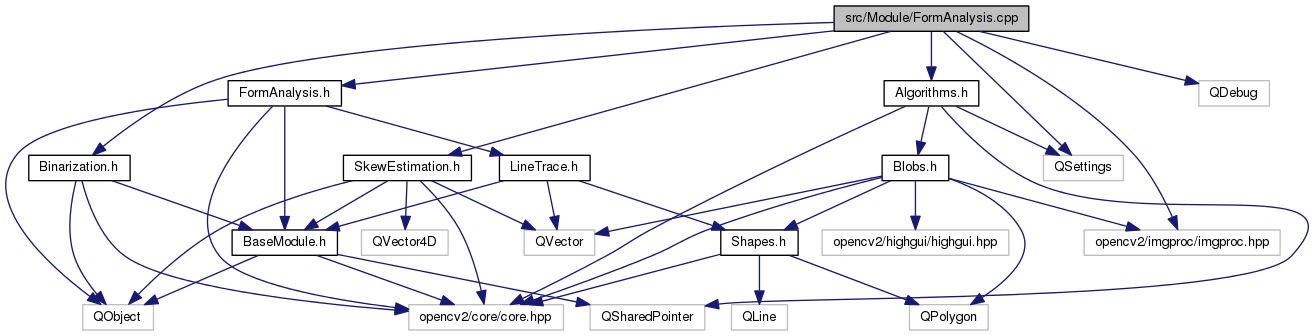
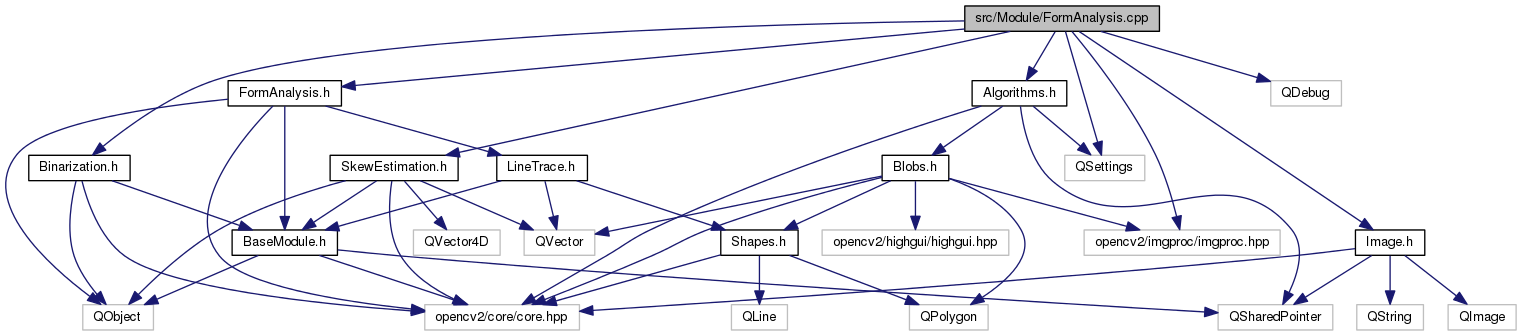
Automated documentation build for changeset 3e130e767842765d2caf7272e728a88d72a7d25c.

diff --git a/html/dir_000003_000001.html b/html/dir_000003_000001.html
@@ -95,7 +95,7 @@ $(document).ready(function(){initNavTree('dir_7a678c4f5ebb49c12cb98071857a26cf.h
 </div>
 
 <div class="contents">
-<h3>Module &rarr; Core Relation</h3><table class="dirtab"><tr class="dirtab"><th class="dirtab">File in src/Module</th><th class="dirtab">Includes file in src/Core</th></tr><tr class="dirtab"><td class="dirtab"><a class="el" href="_base_module_8cpp.html">BaseModule.cpp</a></td><td class="dirtab"><a class="el" href="_settings_8h.html">Settings.h</a></td></tr><tr class="dirtab"><td class="dirtab"><a class="el" href="_binarization_8cpp.html">Binarization.cpp</a></td><td class="dirtab"><a class="el" href="_algorithms_8h.html">Algorithms.h</a></td></tr><tr class="dirtab"><td class="dirtab"><a class="el" href="_binarization_8cpp.html">Binarization.cpp</a></td><td class="dirtab"><a class="el" href="_image_8h.html">Image.h</a></td></tr><tr class="dirtab"><td class="dirtab"><a class="el" href="_focus_measure_8cpp.html">FocusMeasure.cpp</a></td><td class="dirtab"><a class="el" href="_algorithms_8h.html">Algorithms.h</a></td></tr><tr class="dirtab"><td class="dirtab"><a class="el" href="_form_analysis_8cpp.html">FormAnalysis.cpp</a></td><td class="dirtab"><a class="el" href="_algorithms_8h.html">Algorithms.h</a></td></tr><tr class="dirtab"><td class="dirtab"><a class="el" href="_line_trace_8cpp.html">LineTrace.cpp</a></td><td class="dirtab"><a class="el" href="_algorithms_8h.html">Algorithms.h</a></td></tr><tr class="dirtab"><td class="dirtab"><a class="el" href="_line_trace_8cpp.html">LineTrace.cpp</a></td><td class="dirtab"><a class="el" href="_blobs_8h.html">Blobs.h</a></td></tr><tr class="dirtab"><td class="dirtab"><a class="el" href="_line_trace_8cpp.html">LineTrace.cpp</a></td><td class="dirtab"><a class="el" href="_image_8h.html">Image.h</a></td></tr><tr class="dirtab"><td class="dirtab"><a class="el" href="_line_trace_8h.html">LineTrace.h</a></td><td class="dirtab"><a class="el" href="_shapes_8h.html">Shapes.h</a></td></tr><tr class="dirtab"><td class="dirtab"><a class="el" href="_skew_estimation_8cpp.html">SkewEstimation.cpp</a></td><td class="dirtab"><a class="el" href="_algorithms_8h.html">Algorithms.h</a></td></tr><tr class="dirtab"><td class="dirtab"><a class="el" href="_skew_estimation_8cpp.html">SkewEstimation.cpp</a></td><td class="dirtab"><a class="el" href="_image_8h.html">Image.h</a></td></tr></table></div><!-- contents -->
+<h3>Module &rarr; Core Relation</h3><table class="dirtab"><tr class="dirtab"><th class="dirtab">File in src/Module</th><th class="dirtab">Includes file in src/Core</th></tr><tr class="dirtab"><td class="dirtab"><a class="el" href="_base_module_8cpp.html">BaseModule.cpp</a></td><td class="dirtab"><a class="el" href="_settings_8h.html">Settings.h</a></td></tr><tr class="dirtab"><td class="dirtab"><a class="el" href="_binarization_8cpp.html">Binarization.cpp</a></td><td class="dirtab"><a class="el" href="_algorithms_8h.html">Algorithms.h</a></td></tr><tr class="dirtab"><td class="dirtab"><a class="el" href="_binarization_8cpp.html">Binarization.cpp</a></td><td class="dirtab"><a class="el" href="_image_8h.html">Image.h</a></td></tr><tr class="dirtab"><td class="dirtab"><a class="el" href="_focus_measure_8cpp.html">FocusMeasure.cpp</a></td><td class="dirtab"><a class="el" href="_algorithms_8h.html">Algorithms.h</a></td></tr><tr class="dirtab"><td class="dirtab"><a class="el" href="_form_analysis_8cpp.html">FormAnalysis.cpp</a></td><td class="dirtab"><a class="el" href="_algorithms_8h.html">Algorithms.h</a></td></tr><tr class="dirtab"><td class="dirtab"><a class="el" href="_form_analysis_8cpp.html">FormAnalysis.cpp</a></td><td class="dirtab"><a class="el" href="_image_8h.html">Image.h</a></td></tr><tr class="dirtab"><td class="dirtab"><a class="el" href="_line_trace_8cpp.html">LineTrace.cpp</a></td><td class="dirtab"><a class="el" href="_algorithms_8h.html">Algorithms.h</a></td></tr><tr class="dirtab"><td class="dirtab"><a class="el" href="_line_trace_8cpp.html">LineTrace.cpp</a></td><td class="dirtab"><a class="el" href="_blobs_8h.html">Blobs.h</a></td></tr><tr class="dirtab"><td class="dirtab"><a class="el" href="_line_trace_8cpp.html">LineTrace.cpp</a></td><td class="dirtab"><a class="el" href="_image_8h.html">Image.h</a></td></tr><tr class="dirtab"><td class="dirtab"><a class="el" href="_line_trace_8h.html">LineTrace.h</a></td><td class="dirtab"><a class="el" href="_shapes_8h.html">Shapes.h</a></td></tr><tr class="dirtab"><td class="dirtab"><a class="el" href="_skew_estimation_8cpp.html">SkewEstimation.cpp</a></td><td class="dirtab"><a class="el" href="_algorithms_8h.html">Algorithms.h</a></td></tr><tr class="dirtab"><td class="dirtab"><a class="el" href="_skew_estimation_8cpp.html">SkewEstimation.cpp</a></td><td class="dirtab"><a class="el" href="_image_8h.html">Image.h</a></td></tr></table></div><!-- contents -->
 </div><!-- doc-content -->
 <!-- start footer part -->
 <div id="nav-path" class="navpath"><!-- id is needed for treeview function! -->

diff --git a/html/_form_analysis_8cpp.html b/html/_form_analysis_8cpp.html
@@ -111,6 +111,7 @@ $(document).ready(function(){initNavTree('_form_analysis_8cpp.html','');});
 <code>#include &quot;<a class="el" href="_binarization_8h_source.html">Binarization.h</a>&quot;</code><br/>
 <code>#include &quot;<a class="el" href="_algorithms_8h_source.html">Algorithms.h</a>&quot;</code><br/>
 <code>#include &quot;<a class="el" href="_skew_estimation_8h_source.html">SkewEstimation.h</a>&quot;</code><br/>
+<code>#include &quot;<a class="el" href="_image_8h_source.html">Image.h</a>&quot;</code><br/>
 <code>#include &lt;QDebug&gt;</code><br/>
 <code>#include &lt;QSettings&gt;</code><br/>
 <code>#include &quot;opencv2/imgproc/imgproc.hpp&quot;</code><br/>
@@ -119,7 +120,7 @@ Include dependency graph for FormAnalysis.cpp:</div>
 <div class="dyncontent">
 <div class="center"><img src="_form_analysis_8cpp__incl.png" border="0" usemap="#src_2_module_2_form_analysis_8cpp" alt=""/></div>
 <map name="src_2_module_2_form_analysis_8cpp" id="src_2_module_2_form_analysis_8cpp">
-<area shape="rect" id="node2" href="_form_analysis_8h.html" title="FormAnalysis.h" alt="" coords="228,80,341,107"/><area shape="rect" id="node12" href="_binarization_8h.html" title="Binarization.h" alt="" coords="29,155,130,181"/><area shape="rect" id="node13" href="_algorithms_8h.html" title="Algorithms.h" alt="" coords="884,80,978,107"/><area shape="rect" id="node18" href="_skew_estimation_8h.html" title="SkewEstimation.h" alt="" coords="343,155,471,181"/><area shape="rect" id="node3" href="_base_module_8h.html" title="BaseModule.h" alt="" coords="232,229,337,256"/><area shape="rect" id="node7" href="_line_trace_8h.html" title="LineTrace.h" alt="" coords="499,155,590,181"/><area shape="rect" id="node8" href="_shapes_8h.html" title="Shapes.h" alt="" coords="721,229,797,256"/><area shape="rect" id="node15" href="_blobs_8h.html" title="Blobs.h" alt="" coords="882,155,949,181"/></map>
+<area shape="rect" id="node2" href="_form_analysis_8h.html" title="FormAnalysis.h" alt="" coords="228,80,341,107"/><area shape="rect" id="node12" href="_binarization_8h.html" title="Binarization.h" alt="" coords="29,155,130,181"/><area shape="rect" id="node13" href="_algorithms_8h.html" title="Algorithms.h" alt="" coords="972,80,1066,107"/><area shape="rect" id="node18" href="_skew_estimation_8h.html" title="SkewEstimation.h" alt="" coords="330,155,458,181"/><area shape="rect" id="node20" href="_image_8h.html" title="Image.h" alt="" coords="1355,229,1425,256"/><area shape="rect" id="node3" href="_base_module_8h.html" title="BaseModule.h" alt="" coords="232,229,337,256"/><area shape="rect" id="node7" href="_line_trace_8h.html" title="LineTrace.h" alt="" coords="497,155,587,181"/><area shape="rect" id="node8" href="_shapes_8h.html" title="Shapes.h" alt="" coords="721,229,797,256"/><area shape="rect" id="node15" href="_blobs_8h.html" title="Blobs.h" alt="" coords="882,155,949,181"/></map>
 </div>
 </div><table class="memberdecls">
 <tr class="heading"><td colspan="2"><h2 class="groupheader"><a name="namespaces"></a>

diff --git a/html/_image_8h.html b/html/_image_8h.html
@@ -125,7 +125,7 @@ This graph shows which files directly or indirectly include this file:</div>
 <div class="dyncontent">
 <div class="center"><img src="_image_8h__dep__incl.png" border="0" usemap="#src_2_core_2_image_8hdep" alt=""/></div>
 <map name="src_2_core_2_image_8hdep" id="src_2_core_2_image_8hdep">
-<area shape="rect" id="node2" href="_algorithms_8cpp.html" title="src/Core/Algorithms.cpp" alt="" coords="5,80,168,107"/><area shape="rect" id="node3" href="_image_8cpp.html" title="src/Core/Image.cpp" alt="" coords="193,80,329,107"/><area shape="rect" id="node4" href="_debug_flo_8cpp.html" title="src/DebugFlo.cpp" alt="" coords="355,80,480,107"/><area shape="rect" id="node5" href="_debug_markus_8cpp.html" title="src/DebugMarkus.cpp" alt="" coords="505,80,655,107"/><area shape="rect" id="node6" href="_binarization_8cpp.html" title="src/Module/Binarization.cpp" alt="" coords="679,80,861,107"/><area shape="rect" id="node7" href="_line_trace_8cpp.html" title="src/Module/LineTrace.cpp" alt="" coords="886,80,1057,107"/><area shape="rect" id="node8" href="_skew_estimation_8cpp.html" title="src/Module/SkewEstimation.cpp" alt="" coords="1083,80,1292,107"/></map>
+<area shape="rect" id="node2" href="_algorithms_8cpp.html" title="src/Core/Algorithms.cpp" alt="" coords="5,80,168,107"/><area shape="rect" id="node3" href="_image_8cpp.html" title="src/Core/Image.cpp" alt="" coords="193,80,329,107"/><area shape="rect" id="node4" href="_debug_flo_8cpp.html" title="src/DebugFlo.cpp" alt="" coords="355,80,480,107"/><area shape="rect" id="node5" href="_debug_markus_8cpp.html" title="src/DebugMarkus.cpp" alt="" coords="505,80,655,107"/><area shape="rect" id="node6" href="_binarization_8cpp.html" title="src/Module/Binarization.cpp" alt="" coords="679,80,861,107"/><area shape="rect" id="node7" href="_form_analysis_8cpp.html" title="src/Module/FormAnalysis.cpp" alt="" coords="887,80,1081,107"/><area shape="rect" id="node8" href="_line_trace_8cpp.html" title="src/Module/LineTrace.cpp" alt="" coords="1106,80,1277,107"/><area shape="rect" id="node9" href="_skew_estimation_8cpp.html" title="src/Module/SkewEstimation.cpp" alt="" coords="1303,80,1512,107"/></map>
 </div>
 </div>
 <p><a href="_image_8h_source.html">Go to the source code of this file.</a></p>

diff --git a/html/dir_68267d1309a1af8e8297ef4c3efbcdba.html b/html/dir_68267d1309a1af8e8297ef4c3efbcdba.html
@@ -104,7 +104,7 @@ Directory dependency graph for src:</div>
 <div class="dyncontent">
 <div class="center"><img src="dir_68267d1309a1af8e8297ef4c3efbcdba_dep.png" border="0" usemap="#dir__68267d1309a1af8e8297ef4c3efbcdba__dep" alt="src"/></div>
 <map name="dir__68267d1309a1af8e8297ef4c3efbcdba__dep" id="dir__68267d1309a1af8e8297ef4c3efbcdba__dep">
-<area shape="rect" id="node4" href="dir_7a678c4f5ebb49c12cb98071857a26cf.html" title="Module" alt="" coords="123,123,195,171"/><area shape="rect" id="edge1-headlabel" href="dir_000000_000003.html" title="7" alt="" coords="163,97,171,112"/><area shape="rect" id="node2" href="dir_a2f0e5642e47e7ed59fe0f0829eafb5f.html" title="Core" alt="" coords="123,219,195,267"/><area shape="rect" id="node3" href="dir_295b4433276adffd561d479e7af2da71.html" title="Dummy" alt="" coords="27,27,99,75"/><area shape="rect" id="edge2-headlabel" href="dir_000003_000001.html" title="11" alt="" coords="160,193,174,208"/><area shape="rect" id="clust1" href="dir_68267d1309a1af8e8297ef4c3efbcdba.html" alt="" coords="16,16,205,277"/></map>
+<area shape="rect" id="node4" href="dir_7a678c4f5ebb49c12cb98071857a26cf.html" title="Module" alt="" coords="123,123,195,171"/><area shape="rect" id="edge1-headlabel" href="dir_000000_000003.html" title="7" alt="" coords="163,97,171,112"/><area shape="rect" id="node2" href="dir_a2f0e5642e47e7ed59fe0f0829eafb5f.html" title="Core" alt="" coords="123,219,195,267"/><area shape="rect" id="node3" href="dir_295b4433276adffd561d479e7af2da71.html" title="Dummy" alt="" coords="27,27,99,75"/><area shape="rect" id="edge2-headlabel" href="dir_000003_000001.html" title="12" alt="" coords="160,193,174,208"/><area shape="rect" id="clust1" href="dir_68267d1309a1af8e8297ef4c3efbcdba.html" alt="" coords="16,16,205,277"/></map>
 </div>
 <table class="memberdecls">
 <tr class="heading"><td colspan="2"><h2 class="groupheader"><a name="subdirs"></a>

diff --git a/html/dir_7a678c4f5ebb49c12cb98071857a26cf.html b/html/dir_7a678c4f5ebb49c12cb98071857a26cf.html
@@ -104,7 +104,7 @@ Directory dependency graph for Module:</div>
 <div class="dyncontent">
 <div class="center"><img src="dir_7a678c4f5ebb49c12cb98071857a26cf_dep.png" border="0" usemap="#dir__7a678c4f5ebb49c12cb98071857a26cf__dep" alt="src/Module"/></div>
 <map name="dir__7a678c4f5ebb49c12cb98071857a26cf__dep" id="dir__7a678c4f5ebb49c12cb98071857a26cf__dep">
-<area shape="rect" id="node1" href="dir_7a678c4f5ebb49c12cb98071857a26cf.html" title="Module" alt="" coords="27,52,99,100"/><area shape="rect" id="node2" href="dir_a2f0e5642e47e7ed59fe0f0829eafb5f.html" title="Core" alt="" coords="27,148,99,196"/><area shape="rect" id="edge1-headlabel" href="dir_000003_000001.html" title="11" alt="" coords="64,122,78,137"/><area shape="rect" id="clust1" href="dir_68267d1309a1af8e8297ef4c3efbcdba.html" title="src" alt="" coords="16,16,109,111"/></map>
+<area shape="rect" id="node1" href="dir_7a678c4f5ebb49c12cb98071857a26cf.html" title="Module" alt="" coords="27,52,99,100"/><area shape="rect" id="node2" href="dir_a2f0e5642e47e7ed59fe0f0829eafb5f.html" title="Core" alt="" coords="27,148,99,196"/><area shape="rect" id="edge1-headlabel" href="dir_000003_000001.html" title="12" alt="" coords="64,122,78,137"/><area shape="rect" id="clust1" href="dir_68267d1309a1af8e8297ef4c3efbcdba.html" title="src" alt="" coords="16,16,109,111"/></map>
 </div>
 <table class="memberdecls">
 <tr class="heading"><td colspan="2"><h2 class="groupheader"><a name="files"></a>
